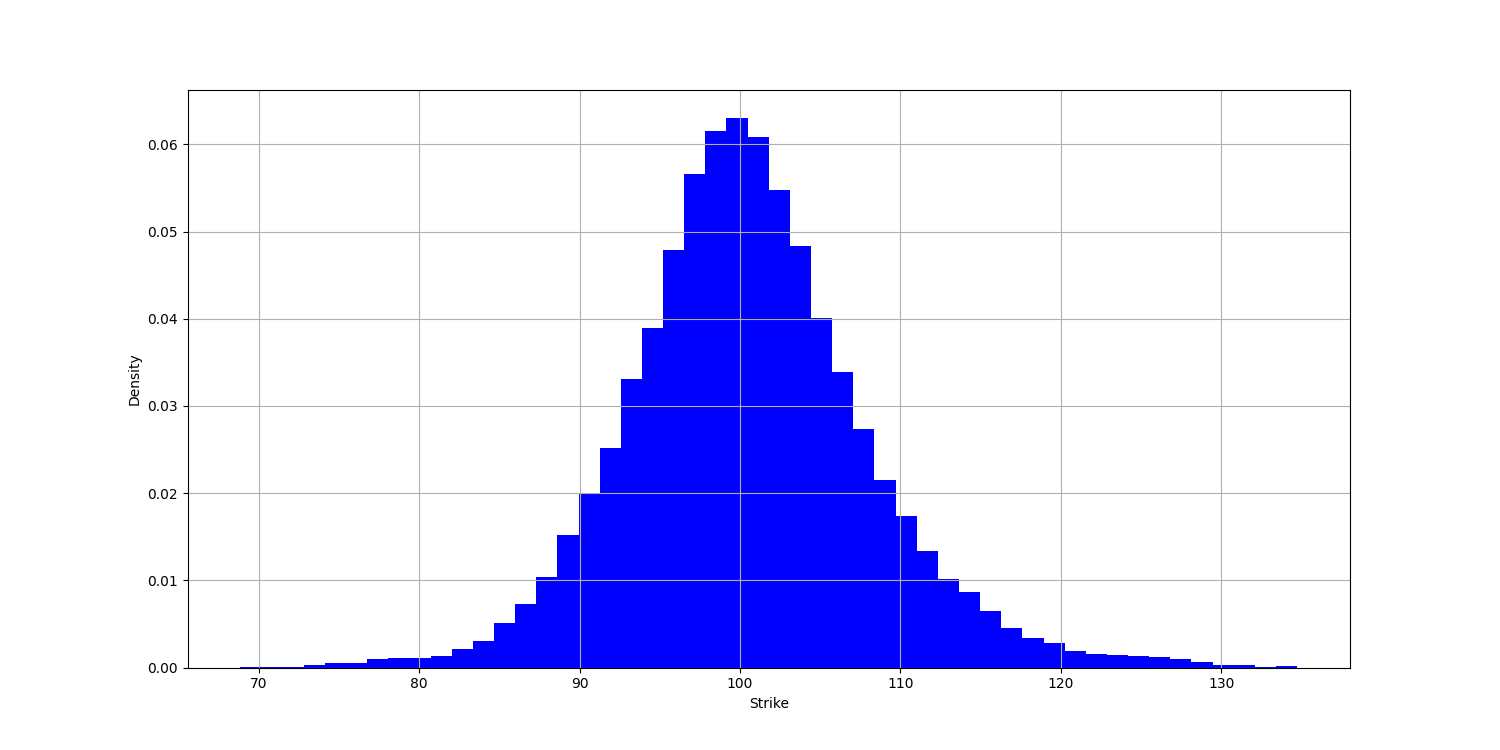
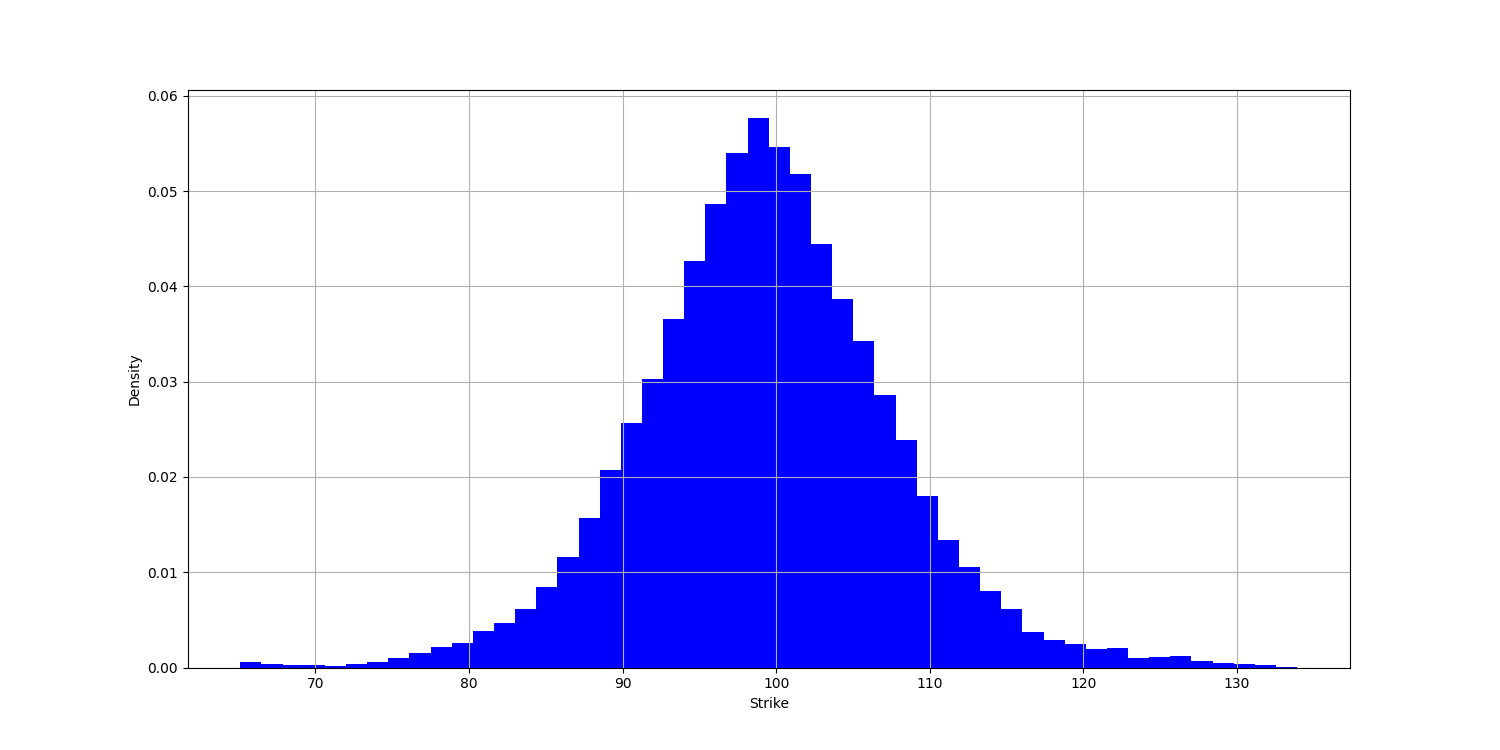
Metropolis Hastings deleting double return in target_distrib

diff --git a/project.py b/project.py
@@ -139,14 +139,14 @@ def target_distrib(x, pi_x, pi_y, mu, sigma):
         # Return interpolated pi_y
         for i in range(1, len(pi_x)):
             if pi_x[i] > x:
-                return (pi_y[i] + pi_y[i - 1]) / 2
+                output = (pi_y[i] + pi_y[i - 1]) / 2
     # Else (tails)
     else:
         # Return fitted gaussian
         numerator = np.exp((-(x - mu) ** 2) / (2 * sigma ** 2))
         denominator = sigma * np.sqrt(2 * np.pi)
-        return numerator / denominator
-
+        output = numerator / denominator
+    return output
 
 # Algorithm
 N = 100000
